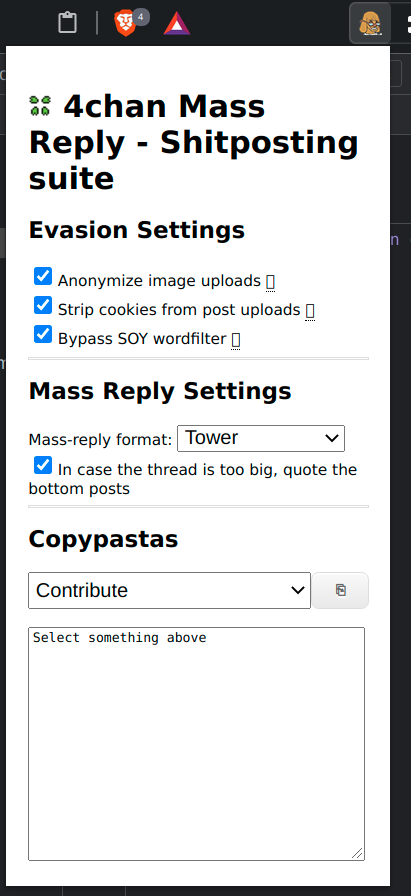
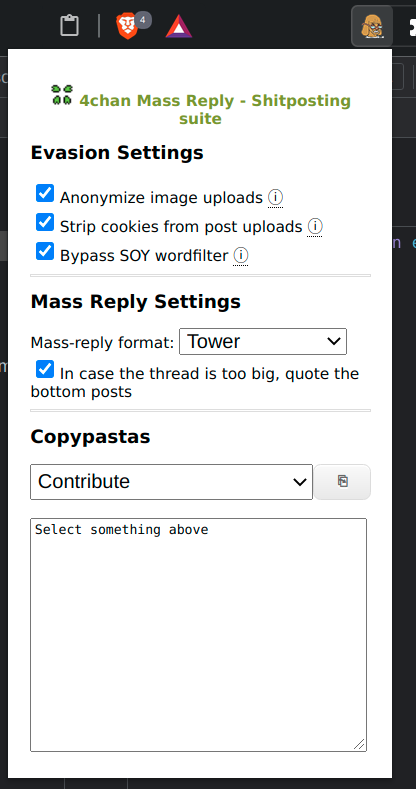
change styling of popup

diff --git a/src/html/popup.html b/src/html/popup.html
@@ -16,17 +16,17 @@
         </h1>
         <h2>Evasion Settings</h2>
         <label><input type="checkbox" id="anonymize" name="anonymize" />Anonymize image uploads</label>
-        <div class="tooltip">&#128712
+        <div class="tooltip">&#9432
             <span class="tooltiptext">Randomize hash and filename.<br>You WILL NOT use this with 4chanX's quick reply</span>
         </div>
         <br>
         <label><input type="checkbox" id="nocookie" name="nocookie" />Strip cookies from post uploads</label>
-        <div class="tooltip">&#128712
+        <div class="tooltip">&#9432
             <span class="tooltiptext">Strips `4chan_pass` cookie for post upload, thus bypassing ban evasion prevention</span>
         </div>
         <br>
         <label><input type="checkbox" id="bypassfilter" name="bypassfilter" />Bypass SOY wordfilter</label>
-        <div class="tooltip">&#128712
+        <div class="tooltip">&#9432
             <span class="tooltiptext">Changes every soy to a string that isn't filtered but looks the same</span>
         </div>
         <hr class="solid">

diff --git a/src/css/popup.css b/src/css/popup.css
@@ -14,10 +14,16 @@ form {
   display: inline-block;
 }
 
-.header {
+h1 {
   color: #789922;
   font-weight: bold;
   text-align: center;
+  font-size: 1em;
+}
+
+h2 {
+  font-weight: bold;
+  font-size: 1.2em;
 }
 
 .button {
